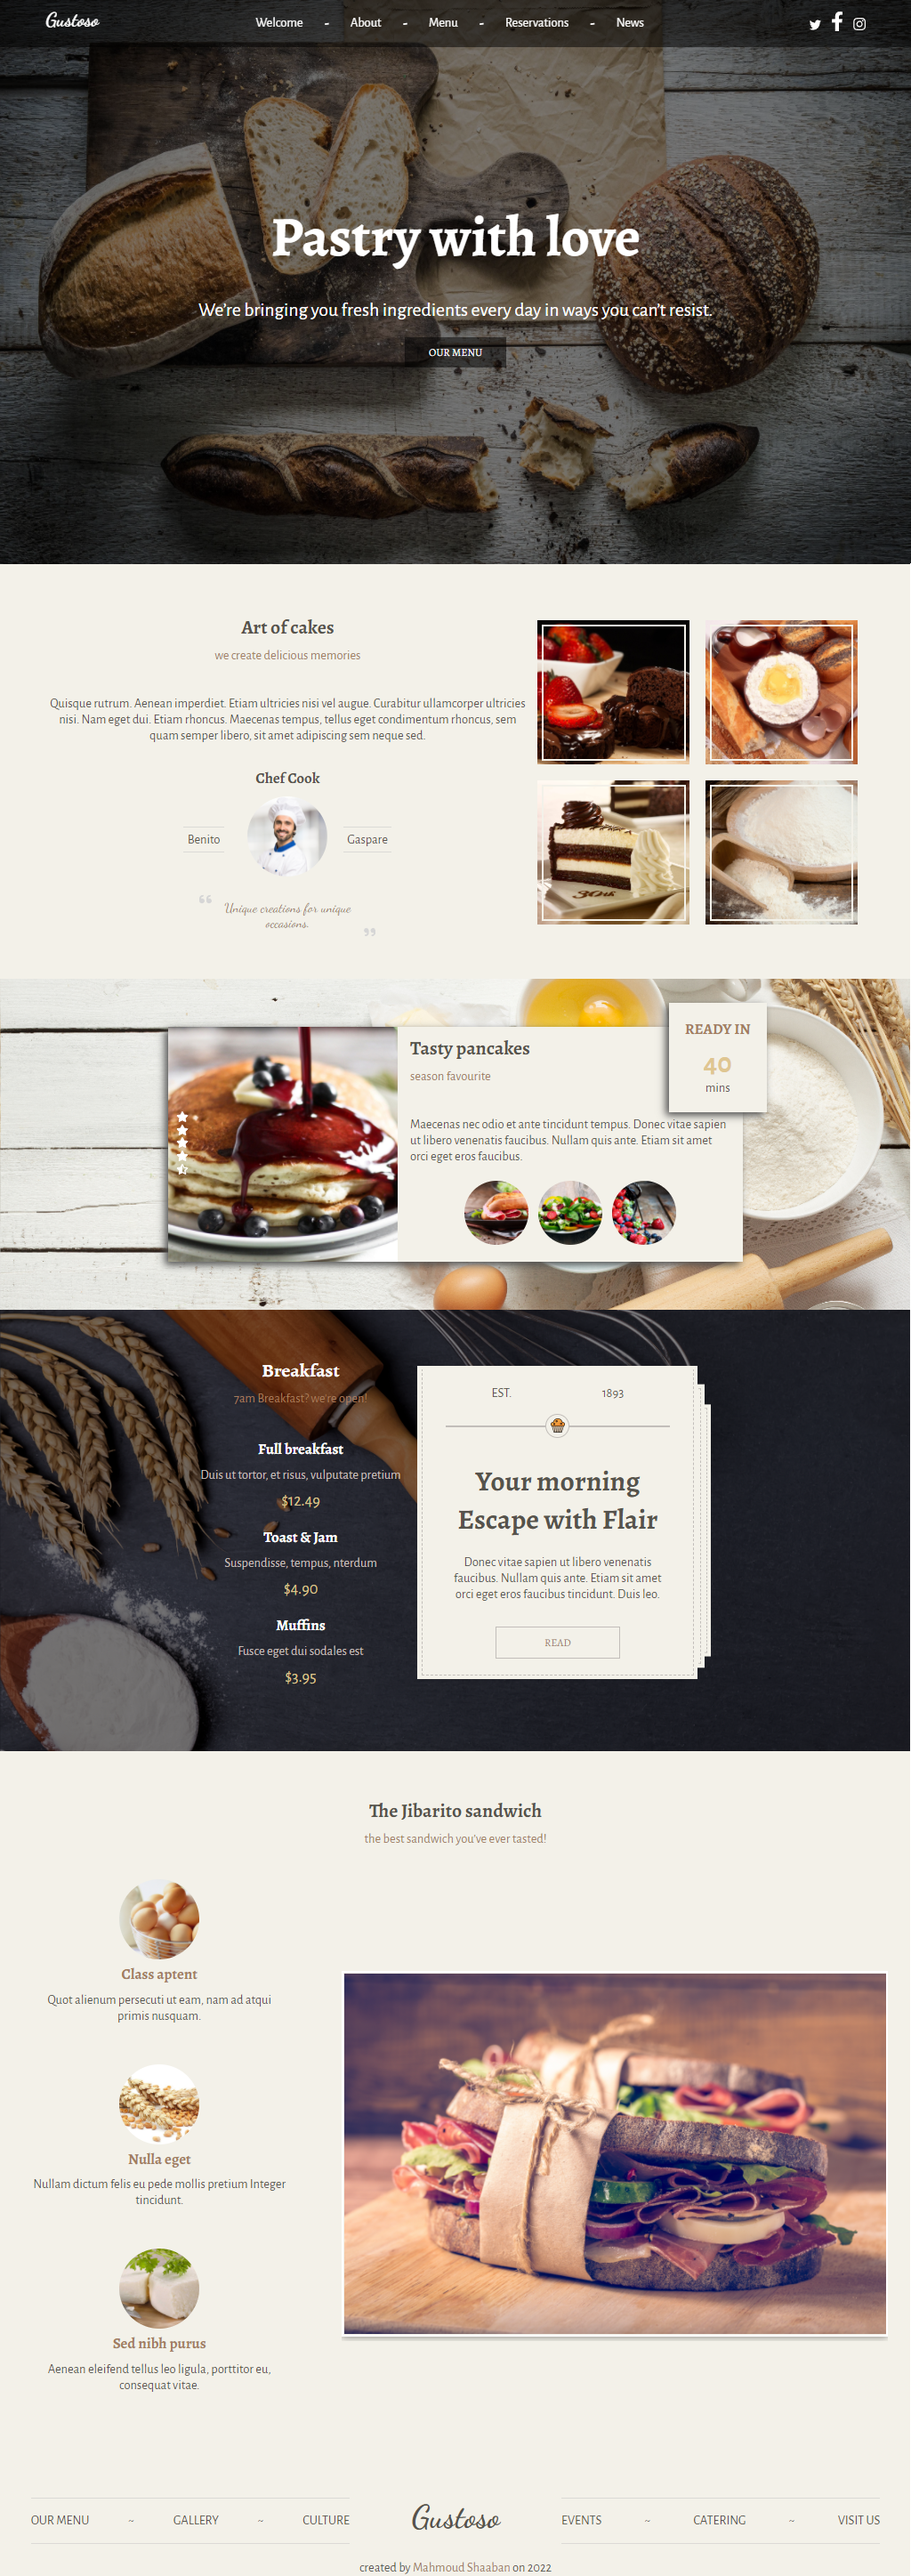
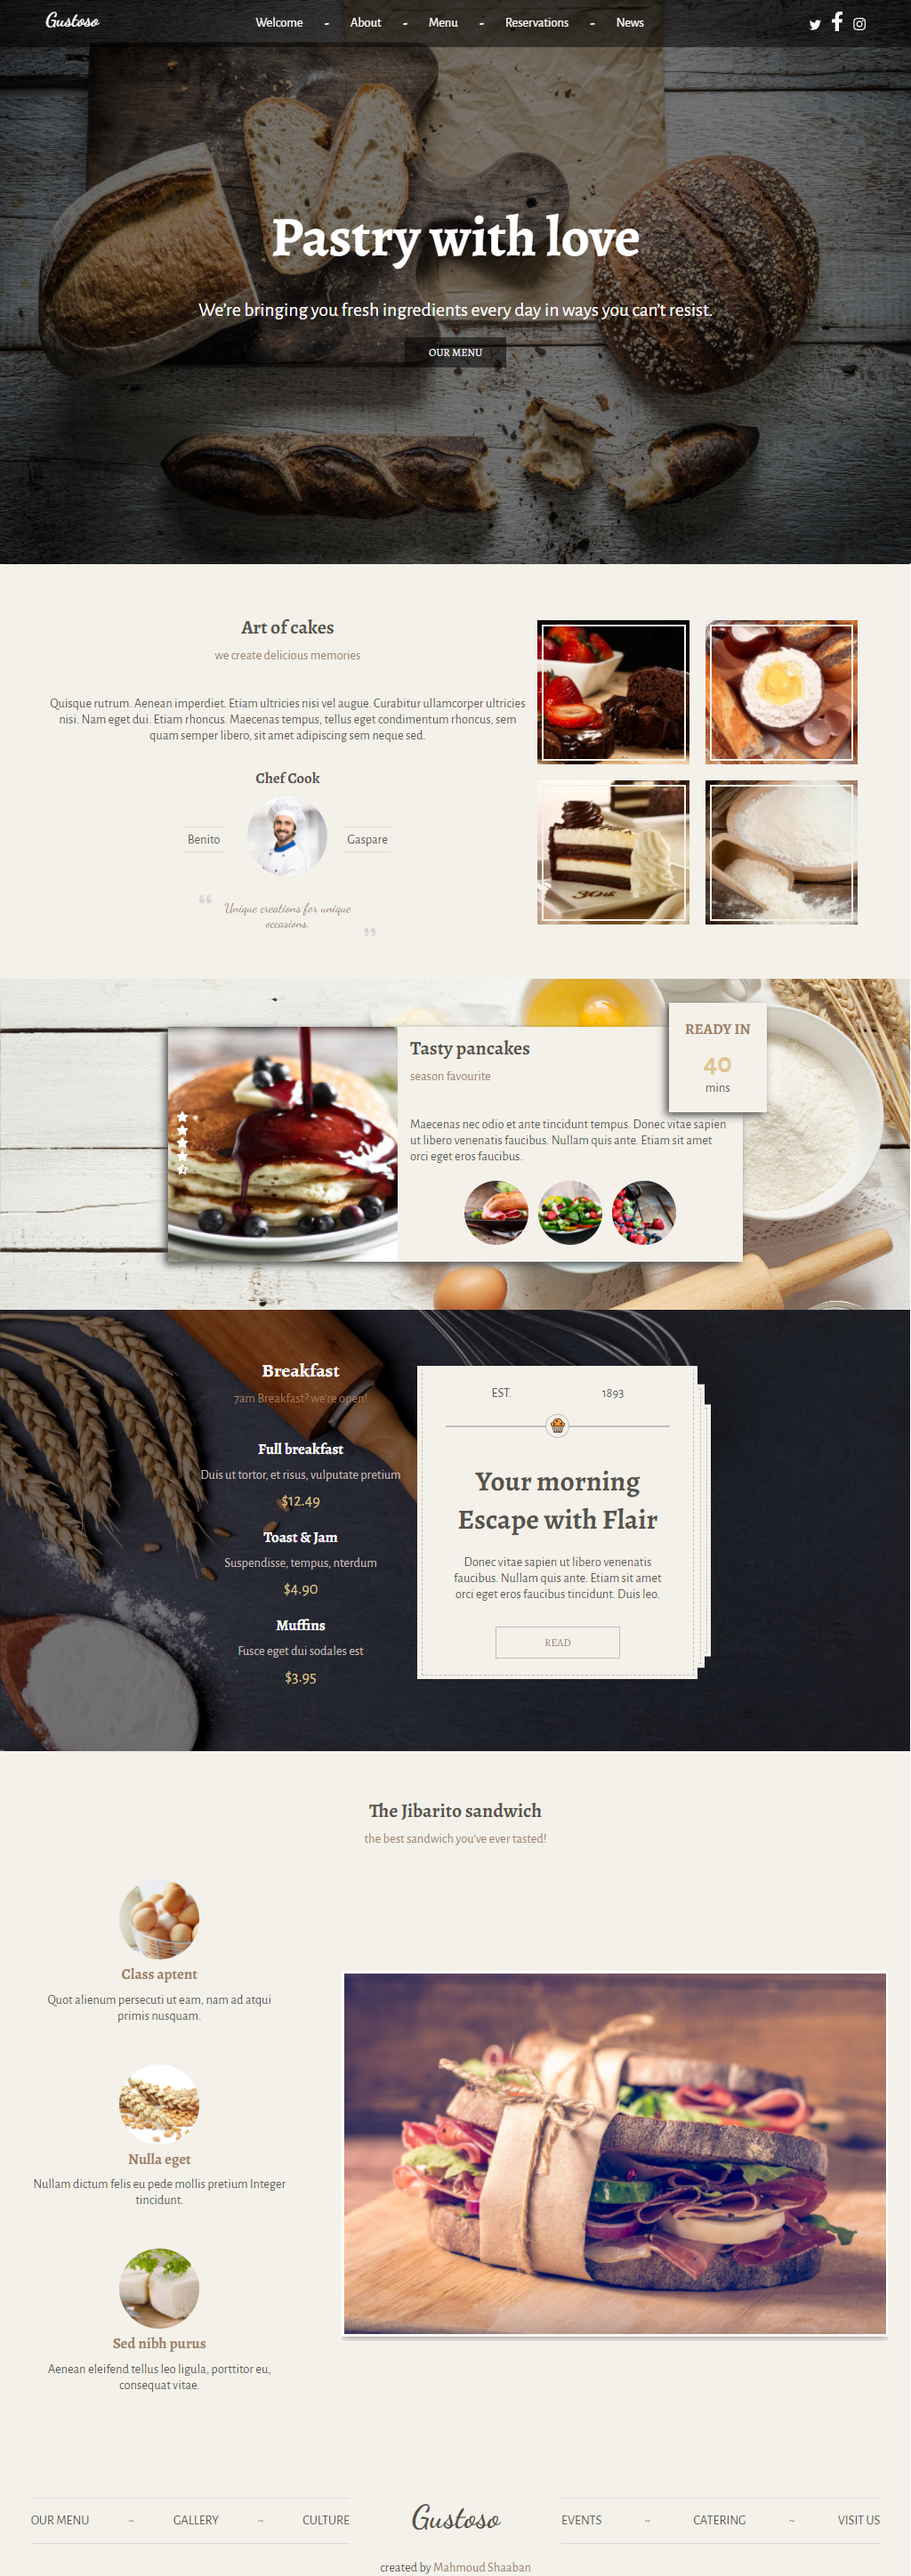
update

Changed region(s): [[0.75, 0.2176, 0.9375, 0.3109], [0.375, 0.9948, 0.625, 1.0]]

diff --git a/css/style.css b/css/style.css
@@ -168,13 +168,12 @@ a{
 }
 /* HOME SECTION */
 .home{
-    background-image: url(../images/home/1.png);
     background-size: 100% 100%;
     background-attachment: fixed;
     height: 100vh; 
     position: relative;
     color: #fff;
-    /* animation-name: changeBackground; */
+    animation-name: changeBackground; 
     animation-duration: 15s;
     animation-iteration-count: infinite;
     /* animation-direction: alternate; */
@@ -197,6 +196,7 @@ a{
 .content p{
     font-size: 24px;
     margin-bottom: 20px;
+    text-align: center;
 }
 .content button{
     background-color: rgba(0, 0, 0, .5);

diff --git a/index.html b/index.html
@@ -348,7 +348,7 @@
             </ul>
         </div>
         <div class="by">
-            created by <span>Mahmoud Shaaban</span> on 2022
+            created by <span>Mahmoud Shaaban</span>
         </div>
         
     </body>
